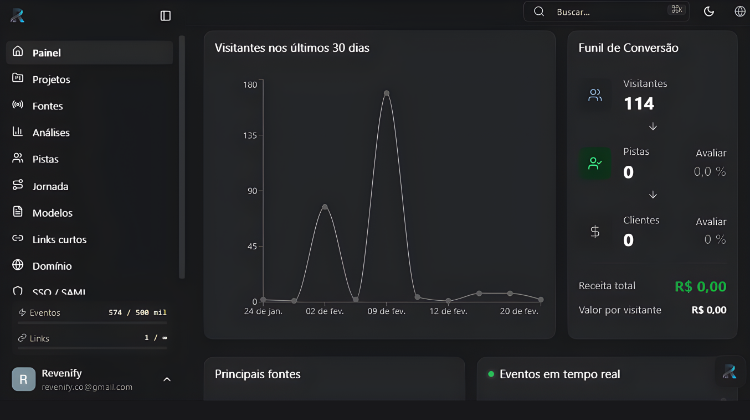
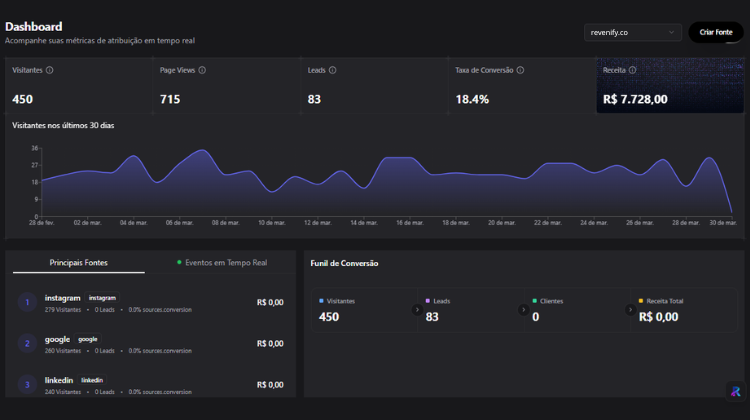
refactor: revert hero to static images, remove DashboardMockup component

diff --git a/src/components/home/Hero.tsx b/src/components/home/Hero.tsx
@@ -39,7 +39,7 @@ export const Hero = () => {
             </div>
 
             {/* Text Content */}
-            <div className="relative z-20 w-full max-w-7xl mx-auto px-3 sm:px-8 xl:px-12 pt-36 sm:pt-40 lg:pt-44 pb-4 sm:pb-24">
+            <div className="relative z-30 w-full max-w-7xl mx-auto px-3 sm:px-8 xl:px-12 pt-36 sm:pt-40 lg:pt-44 pb-4 sm:pb-24 lg:pb-40">
                 {/* Headline */}
                 <motion.h1
                     initial={{ opacity: 0, y: 20 }}
@@ -96,10 +96,10 @@ export const Hero = () => {
                 initial={{ opacity: 0, y: 40 }}
                 animate={{ opacity: 1, y: 0 }}
                 transition={{ duration: 0.7, delay: 0.5 }}
-                className="relative z-20 w-full mt-12 sm:mt-0 px-3 sm:px-8 xl:px-12 max-w-7xl mx-auto"
+                className="relative z-20 w-full mt-12 sm:mt-0 lg:-mt-[11.9rem] xl:-mt-[13.4rem] px-3 sm:px-8 xl:px-12 max-w-7xl mx-auto flex justify-end"
             >
                 {/* Dashboard Outer Glowing Border Container (Animated Conic Gradient) */}
-                <div className="relative rounded-[14px] pt-[2px] pr-[2px] shadow-[30px_-30px_80px_-20px_rgba(26,75,140,0.5)] bg-[#050505] overflow-hidden">
+                <div className="relative rounded-[14px] pt-[2px] pr-[2px] shadow-[30px_-30px_80px_-20px_rgba(26,75,140,0.5)] bg-[#050505] overflow-hidden w-full lg:w-[75%] xl:w-[70%]">
                     {/* Animated moving gradient, similar to buttons but constrained to top/right exposed padding */}
                     <motion.div
                         className="absolute inset-[-1000%] bg-[conic-gradient(from_90deg_at_50%_50%,#020617_0%,#3b82f6_50%,#020617_100%)] opacity-100 z-10"
@@ -108,23 +108,19 @@ export const Hero = () => {
                     />
 
                     <div
-                        className="relative overflow-hidden rounded-[13px] bg-black z-20"
+                        className="relative overflow-hidden rounded-[13px] bg-[#0A0A0B] z-20"
                     >
-                        {/* Desktop image */}
-                        <img
-                            src="/Desktop.png"
-                            alt="Revenify Dashboard - Revenue Attribution Analytics"
-                            className="hidden sm:block w-full h-auto object-cover object-top"
-                            loading="eager"
-                            decoding="async"
+                        {/* Desktop Image */}
+                        <img 
+                            src="/desktop.png" 
+                            alt="Revenify Dashboard" 
+                            className="hidden sm:block w-full h-auto object-cover object-left-top shadow-2xl relative z-20" 
                         />
-                        {/* Mobile image */}
-                        <img
-                            src="/Mobile.png"
-                            alt="Revenify Dashboard"
-                            className="sm:hidden w-full h-auto object-cover object-top"
-                            loading="eager"
-                            decoding="async"
+                        {/* Mobile Image */}
+                        <img 
+                            src="/mobile.png" 
+                            alt="Revenify App Mobile" 
+                            className="block sm:hidden w-full h-auto object-cover object-top shadow-lg relative z-20" 
                         />
                     </div>
                 </div>
@@ -137,10 +133,9 @@ export const Hero = () => {
             />
 
             {/* Animated Feature Marquee Strip — (z-40) - Sitting perfectly on top of the section gradient, horizontally constrained to exactly match the dashboard image width */}
-            <div className="absolute bottom-6 left-0 right-0 z-40 w-full pointer-events-none">
-                <div className="w-full max-w-7xl mx-auto px-3 sm:px-8 xl:px-12">
-                    <div className="relative overflow-hidden bg-transparent pointer-events-auto">
-                        <div className="relative py-3 sm:py-4">
+            <div className="absolute bottom-6 left-0 right-0 z-40 w-full pointer-events-none px-3 sm:px-8 xl:px-12 max-w-7xl mx-auto flex justify-end">
+                <div className="w-full lg:w-[75%] xl:w-[70%] relative overflow-hidden bg-transparent pointer-events-auto">
+                    <div className="relative py-3 sm:py-4">
                             {/* Side gradient fades specific to the marquee text */}
                             <div className="absolute left-0 top-0 bottom-0 w-16 sm:w-32 z-10 pointer-events-none" style={{ background: 'linear-gradient(to right, rgb(0,0,0), transparent)' }} />
                             <div className="absolute right-0 top-0 bottom-0 w-16 sm:w-32 z-10 pointer-events-none" style={{ background: 'linear-gradient(to left, rgb(0,0,0), transparent)' }} />
@@ -161,7 +156,6 @@ export const Hero = () => {
                         </div>
                     </div>
                 </div>
-            </div>
 
             <style>{`
         @keyframes marquee {

diff --git a/vite.config.ts b/vite.config.ts
@@ -24,7 +24,7 @@ export default defineConfig({
     },
   },
   server: {
-    port: 3000,
+    port: 5173,
     open: true,
   },
 })
